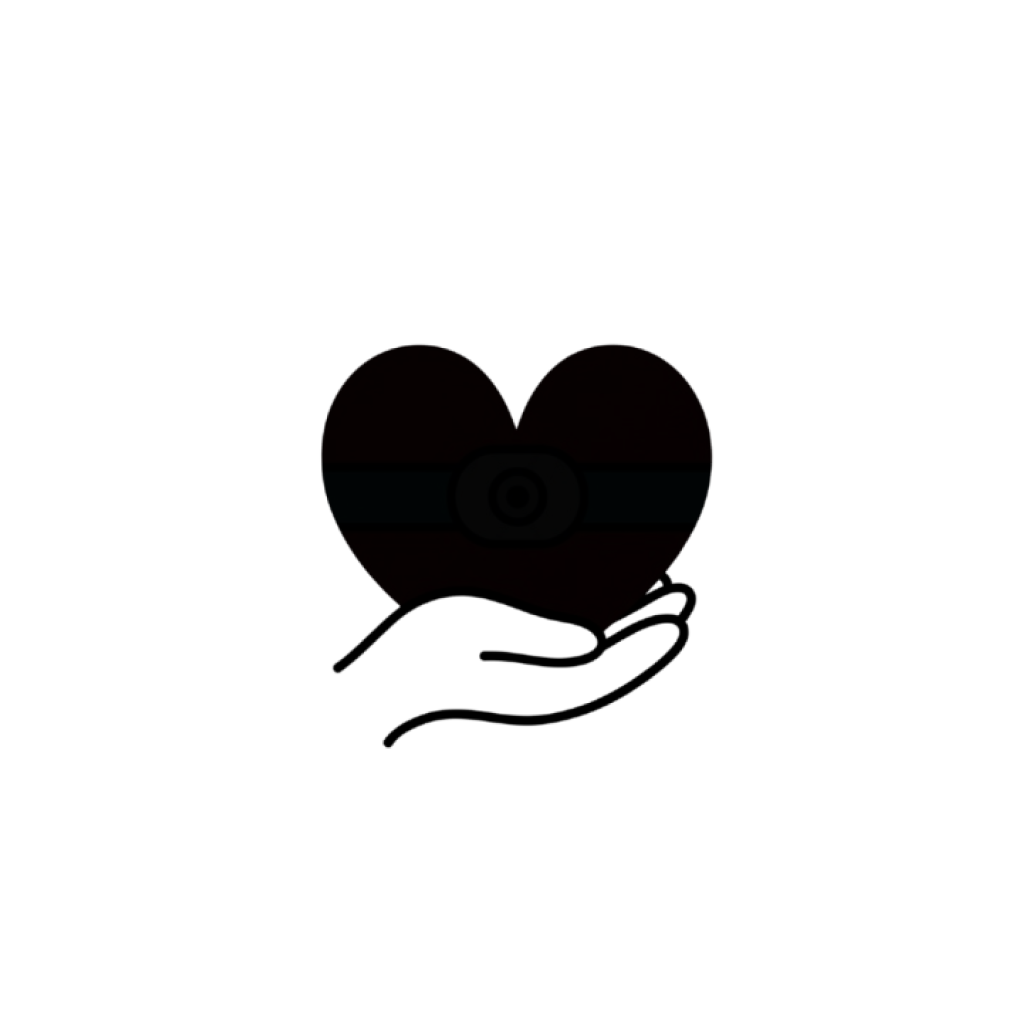
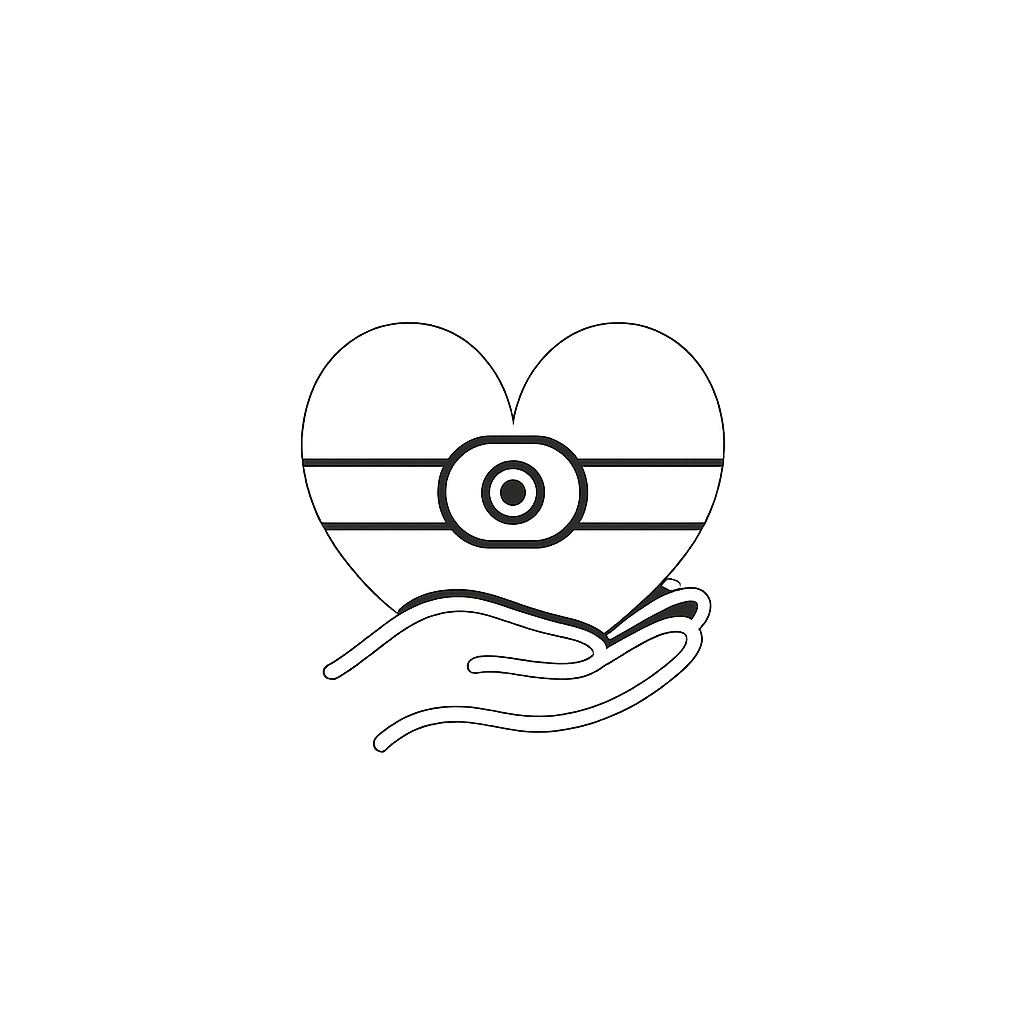
Versão 3.1
- Colocadas ScrollViews em telas que podem extrapolar em outros dispositivos
- Mudança na foto de notificação

Changed region(s): [[0.2812, 0.3125, 0.7188, 0.75]]

diff --git a/app/canula.tsx b/app/canula.tsx
@@ -1,6 +1,6 @@
 import { useFocusEffect } from 'expo-router';
 import { useCallback, useState } from 'react';
-import { Text, TouchableOpacity, View, StyleSheet, TextInput, Dimensions, Keyboard, TouchableWithoutFeedback, Platform, Modal } from 'react-native';
+import { Text, TouchableOpacity, View, StyleSheet, TextInput, Dimensions, Keyboard, TouchableWithoutFeedback, Platform, Modal, ScrollView } from 'react-native';
 import { dateParaData, dataParaDate } from '@/scripts/datas';
 import { getCanula, setCanula } from '@/database/canula';
 import DateTimePicker from "@react-native-community/datetimepicker";
@@ -114,6 +114,11 @@ export default function Canula() {
   return (
     <TouchableWithoutFeedback onPress={Keyboard.dismiss} accessible={false}>
     <View style={styles.container}>
+    <ScrollView 
+      style={{backgroundColor: 'white'}}        
+      contentContainerStyle={{ paddingBottom: 10}}
+      showsVerticalScrollIndicator={false}
+    >
 
       {msg ? <Text style={styles.msg}>{msg}</Text> : null}
       
@@ -291,6 +296,7 @@ export default function Canula() {
         <Text style={styles.txt_botao}>Salvar</Text>
       </TouchableOpacity>
 
+    </ScrollView>
     </View>
     </TouchableWithoutFeedback>
   );

diff --git a/app/telas_emergencia/nconsigoasp5.tsx b/app/telas_emergencia/nconsigoasp5.tsx
@@ -1,4 +1,4 @@
-import { Text, TouchableOpacity, View, } from 'react-native';
+import { ScrollView, Text, TouchableOpacity, View, } from 'react-native';
 import { styles } from '@/estilos/emergencia';
 import { router } from 'expo-router';
 import { ligar } from "@/scripts/ligar";
@@ -34,6 +34,12 @@ export default function Nca5() {
       {/*Apertou 'não'*/}
       {nao === 1 && (
         <>
+          <ScrollView
+            showsVerticalScrollIndicator={false}
+            style={{ flex: 1 }}
+            nestedScrollEnabled
+            contentContainerStyle={{ paddingBottom: 10 }}
+          >
           {/*Título*/}
           <View style={[styles.container_botao, {alignSelf: 'center', marginVertical:20, alignItems: 'center'}]}>
             <MaterialIcons name="warning-amber" size={35} color='#EE4544'/>
@@ -79,7 +85,9 @@ export default function Nca5() {
               <Feather name="arrow-right" size={24} color="white" />
             </View>
           </TouchableOpacity>
+          </ScrollView>
         </>
+        
       )}
       
     </View>

diff --git a/app/(tabs)/agenda.tsx b/app/(tabs)/agenda.tsx
@@ -254,7 +254,7 @@ export default function Agenda() {
         <Text style={[styles2.titulo, {fontSize: 24, marginTop: 13}]}>Hoje</Text>
 
         {registrosHoje.length === 0 ? 
-
+        
           <Text style={styles.subtitulo_vazio}> Não existem registros para hoje.</Text>
           :
           registrosHoje.map((item) => (
